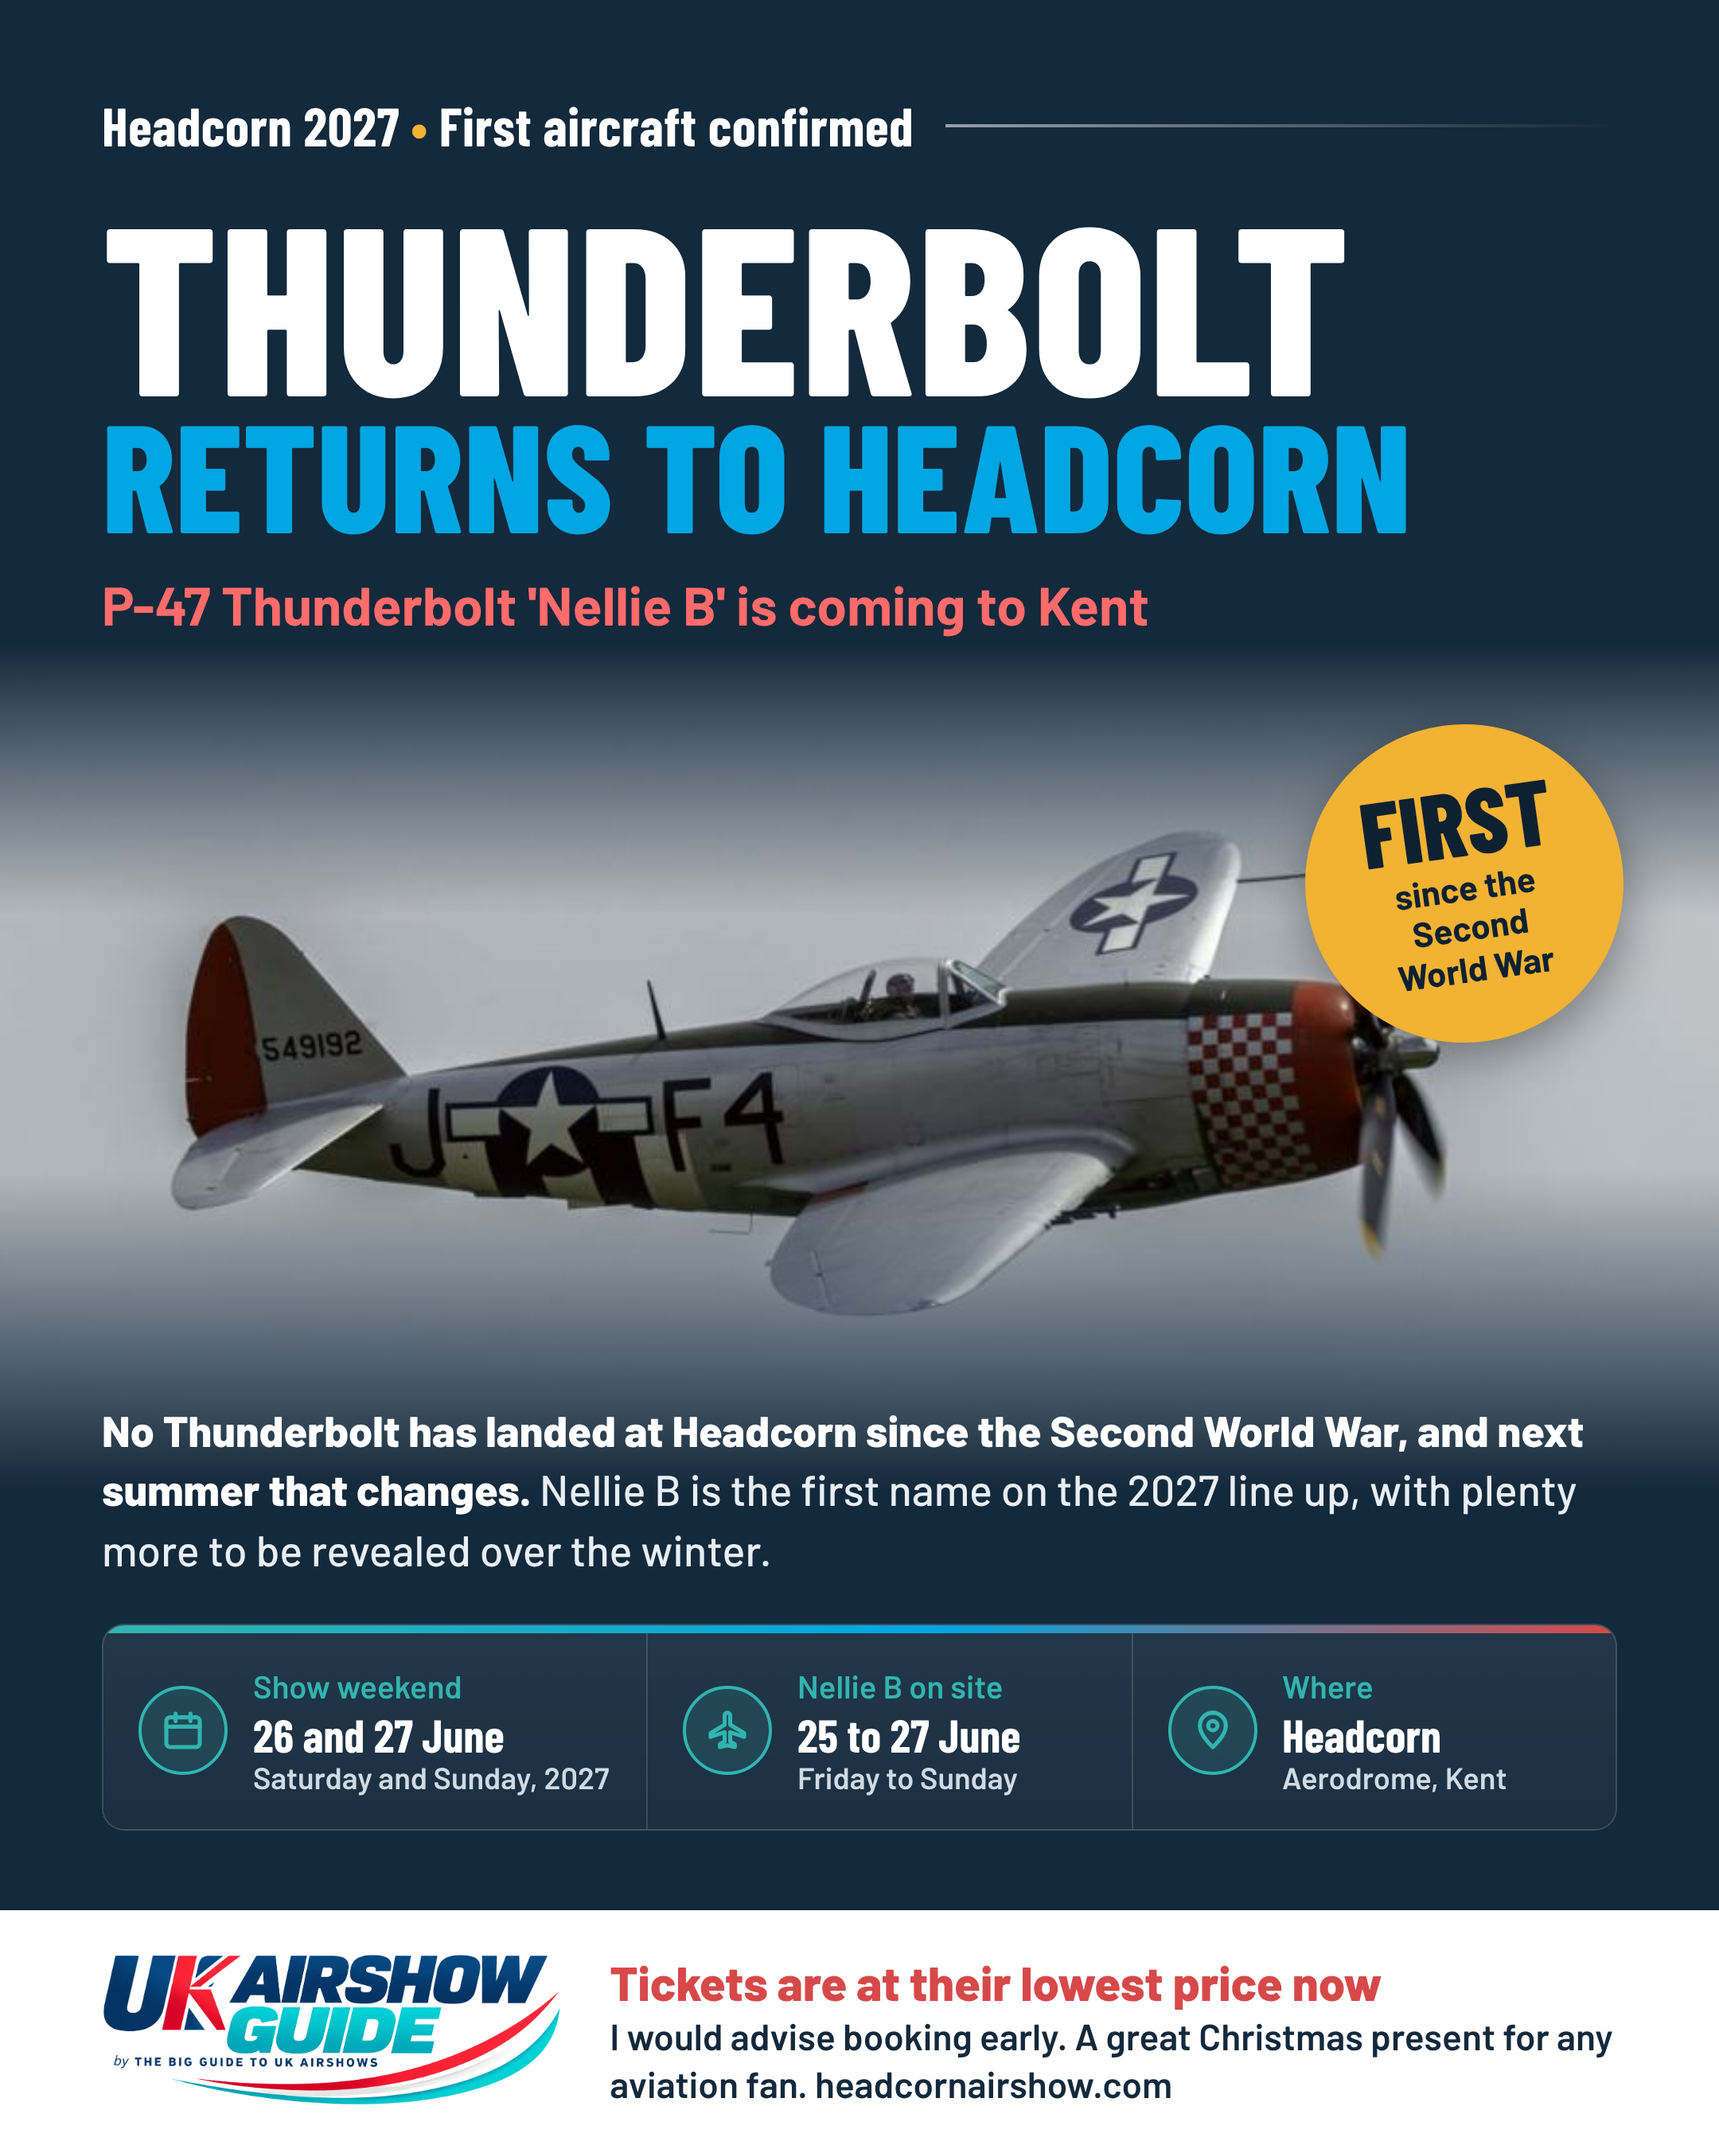
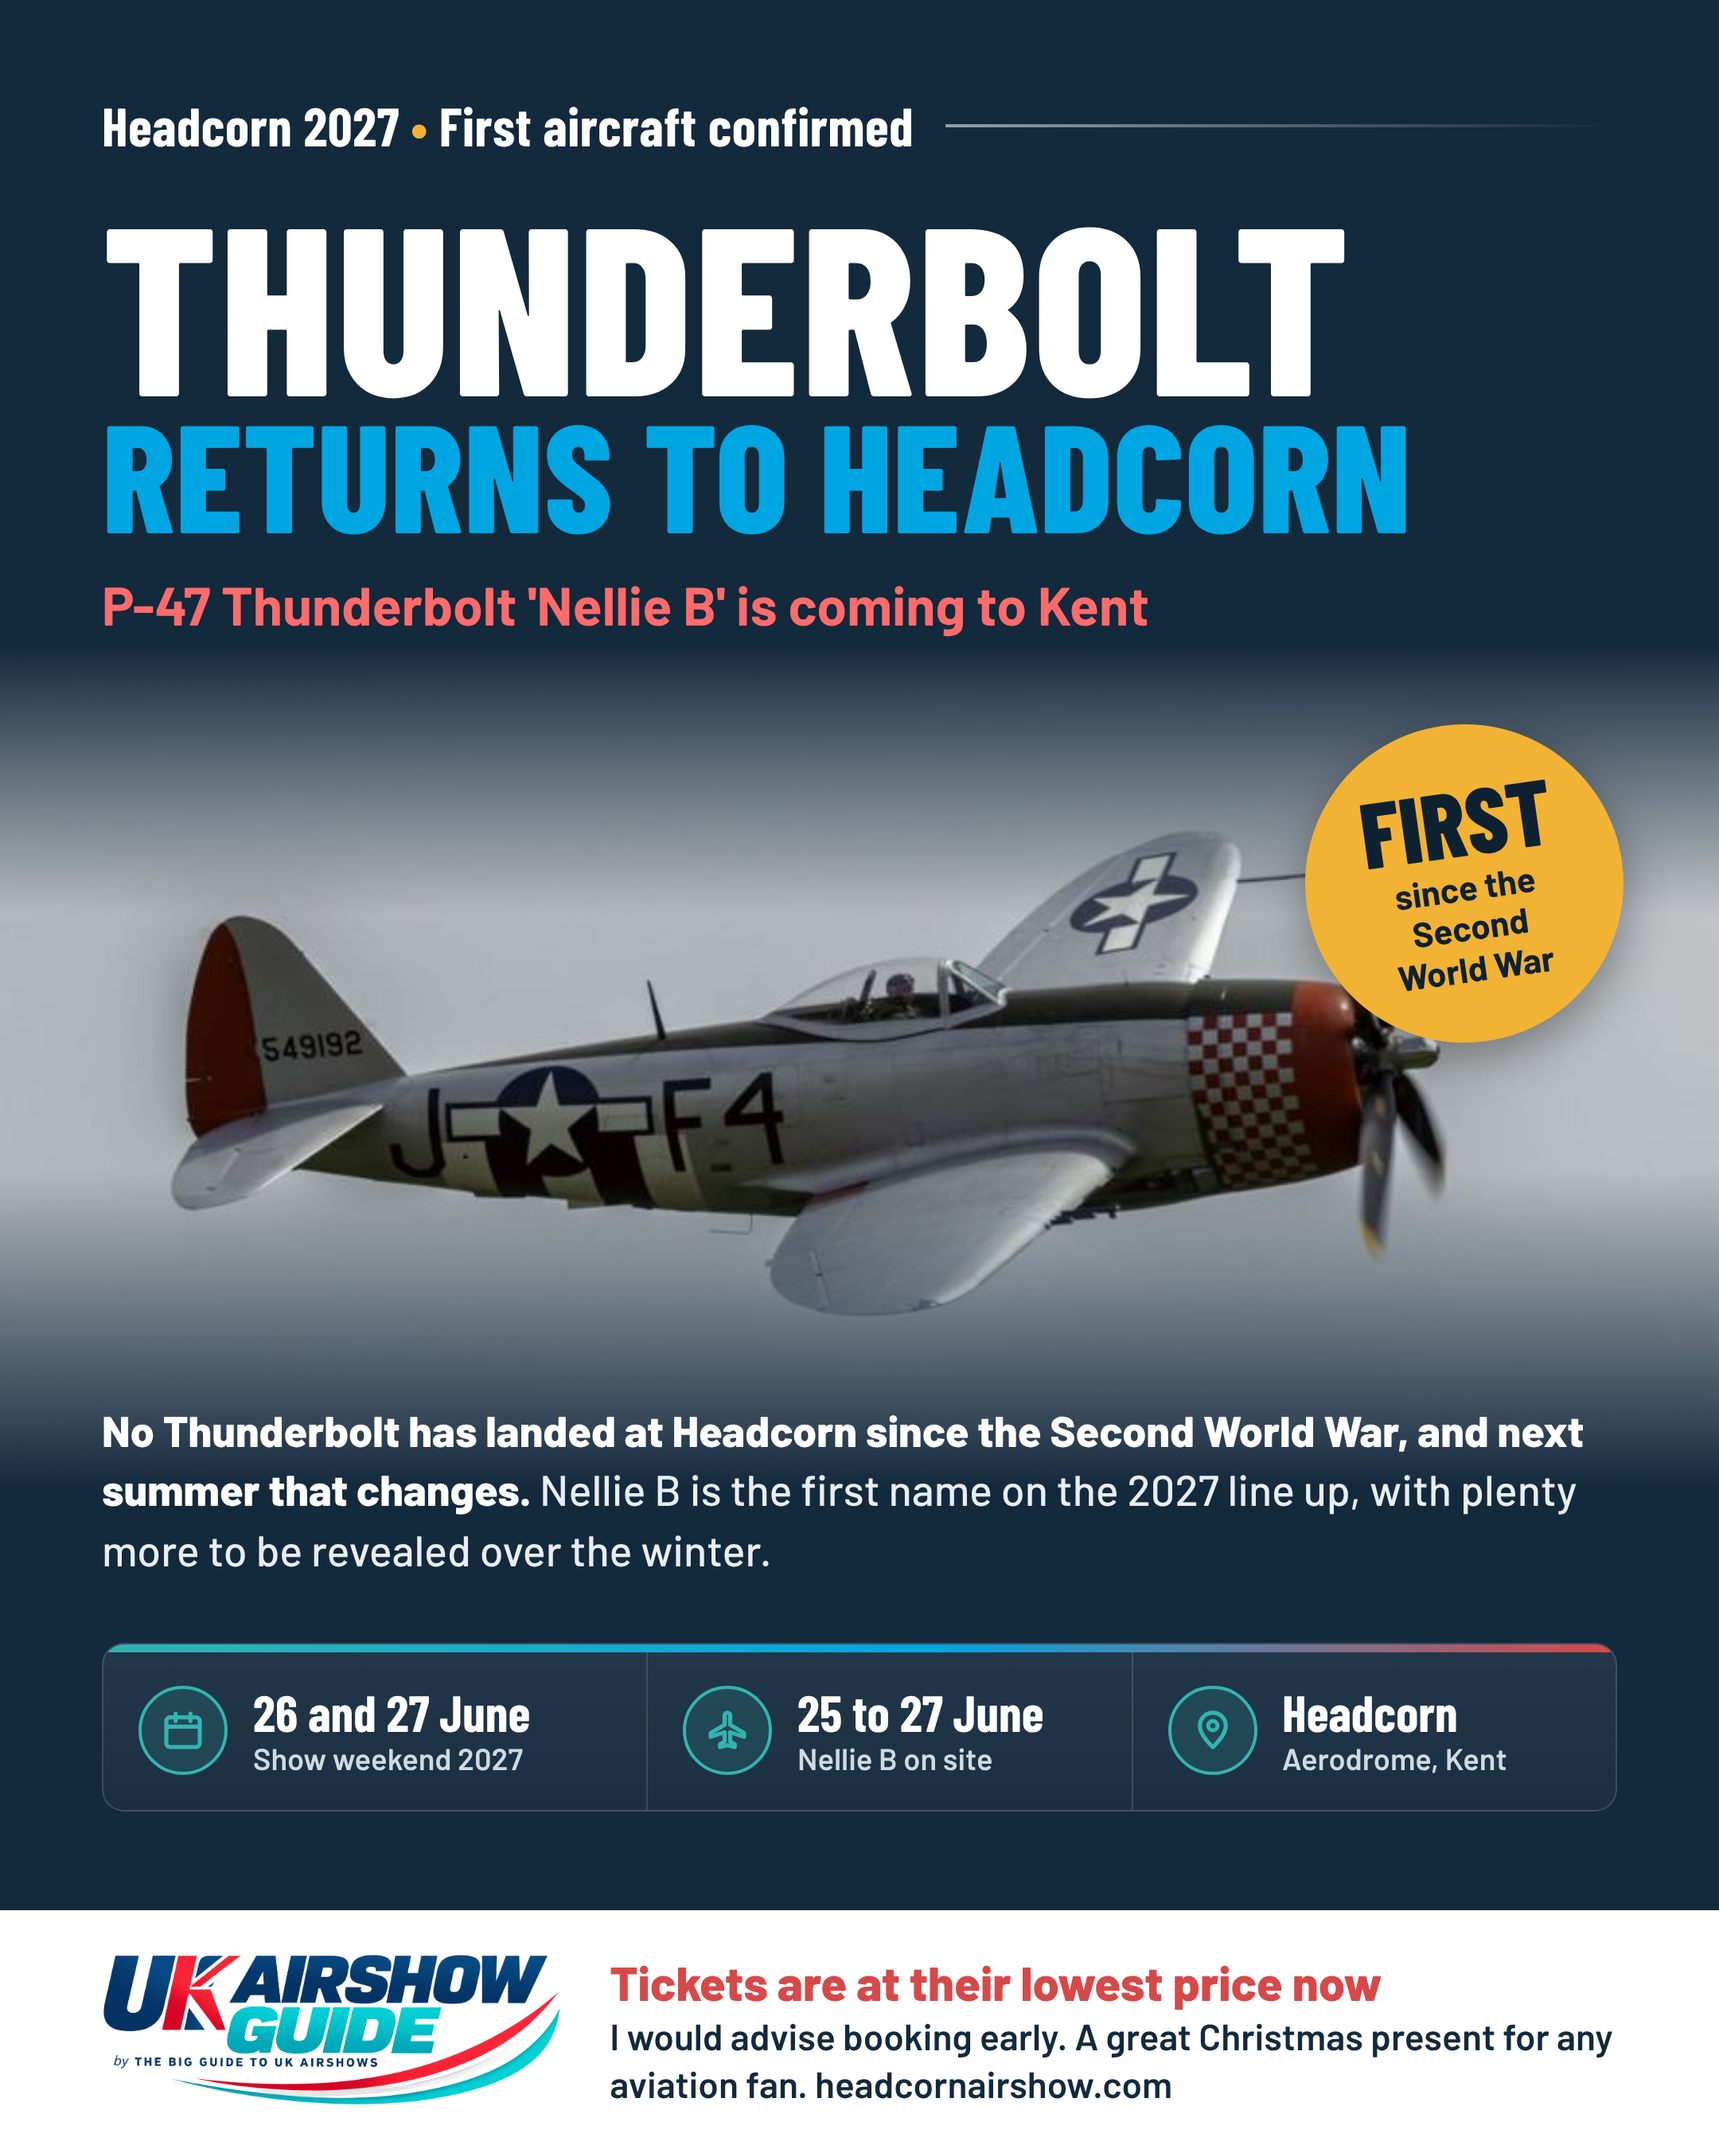
Poster: remove the teal labels from the info panel
Claude-Session: https://claude.ai/code/session_01CAsoXJe6erK8BudmSzF7Kx

Changed region(s): [[0.062, 0.7467, 0.9306, 0.84]]

diff --git a/posters/headcorn-2027-thunderbolt.html b/posters/headcorn-2027-thunderbolt.html
@@ -27,15 +27,14 @@
   .body{position:absolute;left:64px;right:64px;top:880px;z-index:2}
   .intro{font-size:27px;line-height:1.38;font-weight:500;color:#e8eef3}
   .intro strong{color:#fff;font-weight:800}
-  .facts{display:grid;grid-template-columns:1.12fr 1fr 1fr;margin-top:28px;background:linear-gradient(180deg,rgba(255,255,255,.07),rgba(255,255,255,.03));border:1px solid rgba(255,255,255,.14);border-radius:14px;position:relative;overflow:hidden}
+  .facts{display:grid;grid-template-columns:1.12fr 1fr 1fr;margin-top:40px;background:linear-gradient(180deg,rgba(255,255,255,.07),rgba(255,255,255,.03));border:1px solid rgba(255,255,255,.14);border-radius:14px;position:relative;overflow:hidden}
   .facts:before{content:"";position:absolute;left:0;right:0;top:0;height:5px;background:linear-gradient(90deg,var(--teal),var(--sky) 55%,var(--red))}
   .fact{display:flex;align-items:center;gap:16px;padding:26px 22px 22px}
   .fact+.fact{border-left:1px solid rgba(255,255,255,.14)}
   .ic{flex:none;width:56px;height:56px;border-radius:50%;background:rgba(50,180,175,.16);border:2px solid var(--teal);display:flex;align-items:center;justify-content:center}
   .ic svg{width:28px;height:28px;stroke:var(--teal);fill:none;stroke-width:2.2;stroke-linecap:round;stroke-linejoin:round}
-  .fact h3{font-size:20px;font-weight:600;color:var(--teal)}
-  .fact p{font-family:'Barlow Condensed',sans-serif;font-weight:700;font-size:29px;line-height:1.02;margin-top:4px}
-  .fact p small{display:block;font-family:Barlow,sans-serif;font-weight:600;font-size:19px;color:#cfdbe4;margin-top:3px}
+  .fact p{font-family:'Barlow Condensed',sans-serif;font-weight:700;font-size:32px;line-height:1.02}
+  .fact p small{display:block;font-family:Barlow,sans-serif;font-weight:600;font-size:19px;color:#cfdbe4;margin-top:3px;white-space:nowrap}
   .foot{position:absolute;left:0;right:0;bottom:0;height:150px;background:#fff;color:var(--navy);display:flex;align-items:center;gap:30px;padding:0 64px}
   .foot img{height:96px}
   .foot .t{flex:1;font-size:23px;line-height:1.3;font-weight:600}
@@ -57,9 +56,9 @@
   <div class="body">
     <p class="intro"><strong>No Thunderbolt has landed at Headcorn since the Second World War, and next summer that changes.</strong> Nellie B is the first name on the 2027 line up, with plenty more to be revealed over the winter.</p>
     <div class="facts">
-      <div class="fact"><span class="ic"><svg viewBox="0 0 24 24"><rect x="3" y="5" width="18" height="16" rx="2"/><path d="M3 10h18M8 3v4M16 3v4"/></svg></span><div><h3>Show weekend</h3><p>26 and 27 June<small>Saturday and Sunday, 2027</small></p></div></div>
-      <div class="fact"><span class="ic"><svg viewBox="0 0 24 24"><path d="M21 15.5v-2L13.5 9V4a1.5 1.5 0 0 0-3 0v5L3 13.5v2l7.5-2.5v5L8 19.5V21l4-1 4 1v-1.5L13.5 18v-5z"/></svg></span><div><h3>Nellie B on site</h3><p>25 to 27 June<small>Friday to Sunday</small></p></div></div>
-      <div class="fact"><span class="ic"><svg viewBox="0 0 24 24"><path d="M12 21s-7-6.2-7-11.5a7 7 0 0 1 14 0C19 14.8 12 21 12 21z"/><circle cx="12" cy="9.5" r="2.5"/></svg></span><div><h3>Where</h3><p>Headcorn<small>Aerodrome, Kent</small></p></div></div>
+      <div class="fact"><span class="ic"><svg viewBox="0 0 24 24"><rect x="3" y="5" width="18" height="16" rx="2"/><path d="M3 10h18M8 3v4M16 3v4"/></svg></span><div><p>26 and 27 June<small>Show weekend 2027</small></p></div></div>
+      <div class="fact"><span class="ic"><svg viewBox="0 0 24 24"><path d="M21 15.5v-2L13.5 9V4a1.5 1.5 0 0 0-3 0v5L3 13.5v2l7.5-2.5v5L8 19.5V21l4-1 4 1v-1.5L13.5 18v-5z"/></svg></span><div><p>25 to 27 June<small>Nellie B on site</small></p></div></div>
+      <div class="fact"><span class="ic"><svg viewBox="0 0 24 24"><path d="M12 21s-7-6.2-7-11.5a7 7 0 0 1 14 0C19 14.8 12 21 12 21z"/><circle cx="12" cy="9.5" r="2.5"/></svg></span><div><p>Headcorn<small>Aerodrome, Kent</small></p></div></div>
     </div>
   </div>
 
